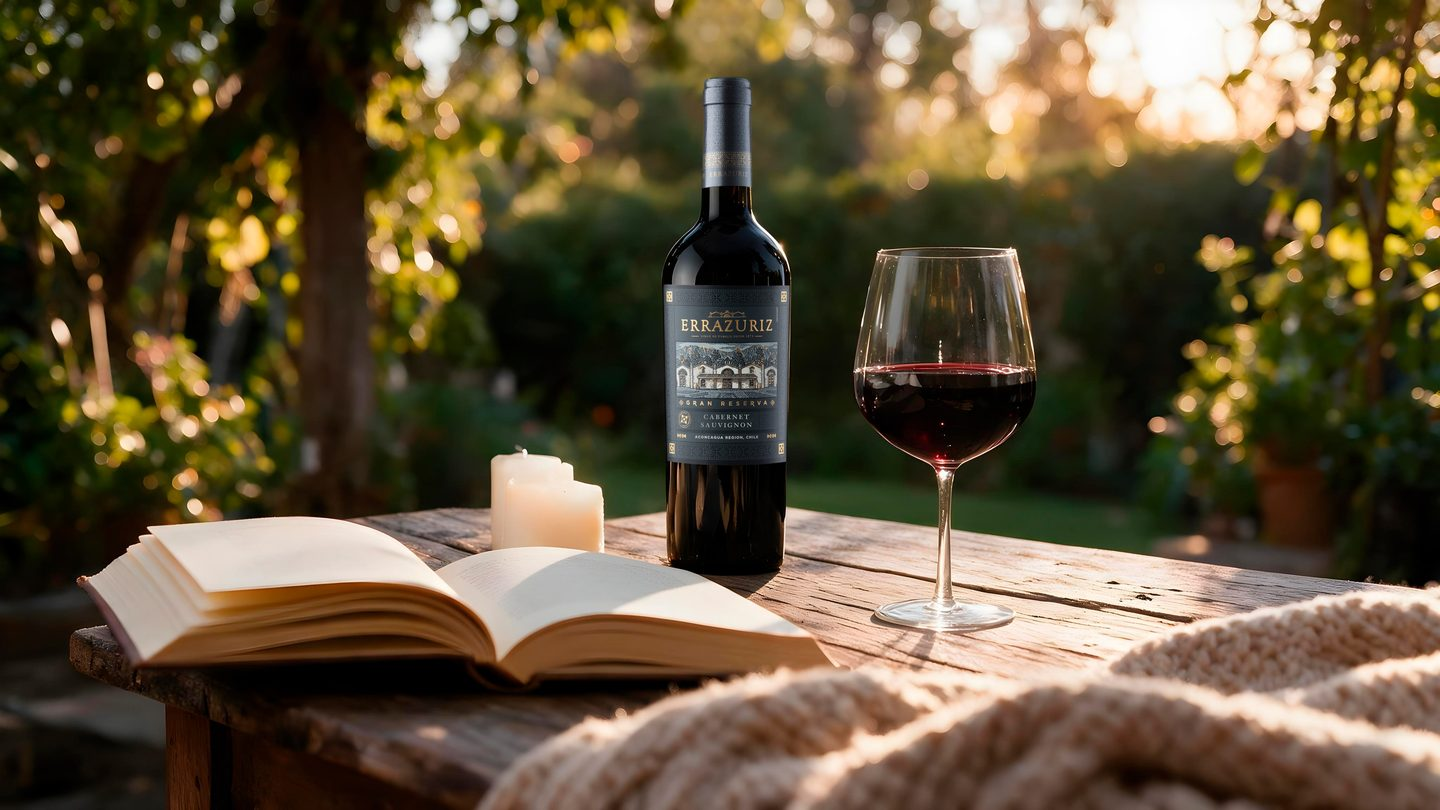
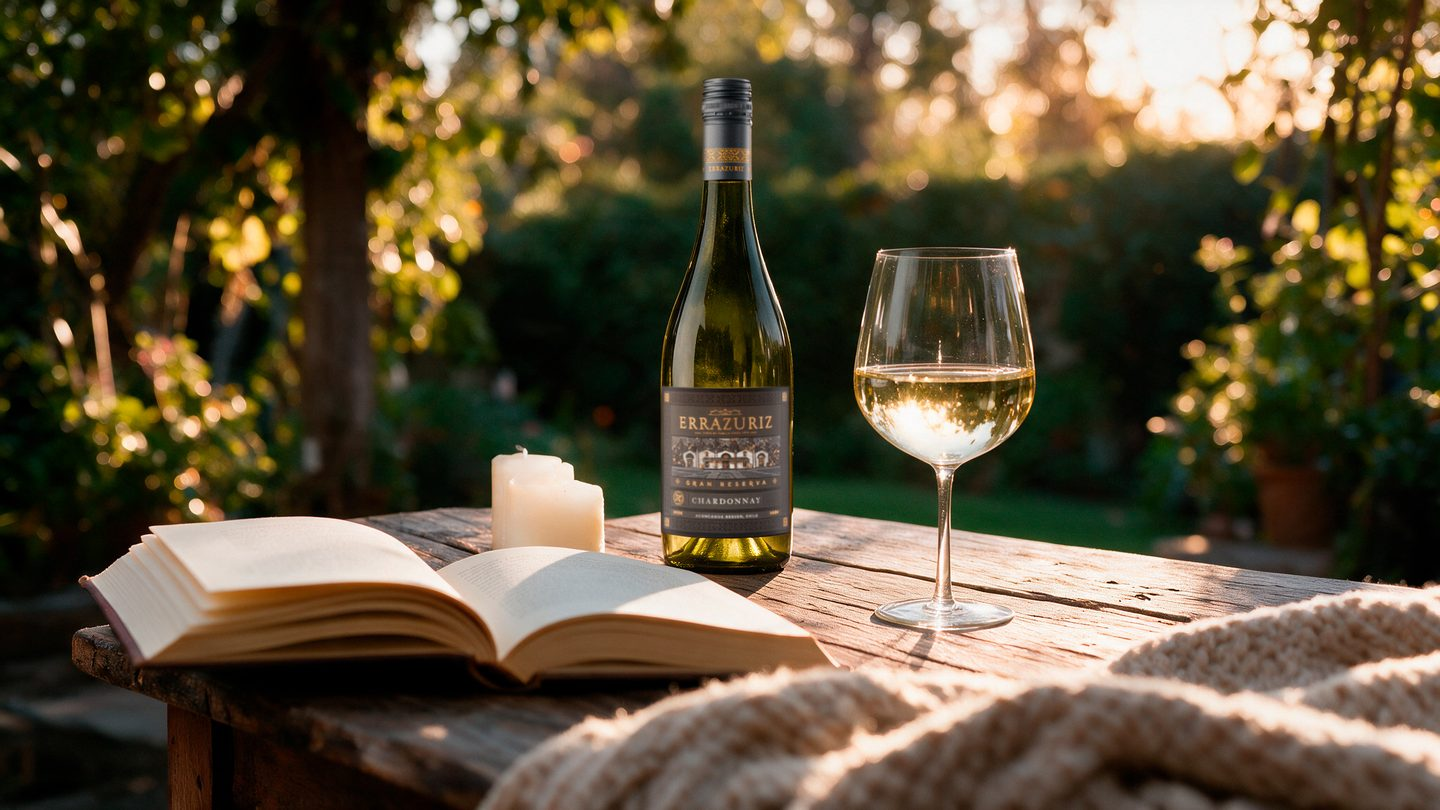
Use the Gran Reserva Chardonnay book image as the hero
Swap the Cabernet Sauvignon garden-table scene for the Chardonnay version
and update the alt text. The new source is 2048px wide, so the largest
desktop and tablet crops are capped at 2048w and 1726w to avoid upscaling.

diff --git a/index.html b/index.html
@@ -29,12 +29,12 @@
                 srcset="assets/hero-book-mobile-640.jpg 640w, assets/hero-book-mobile-960.jpg 960w"
                 sizes="100vw" width="640" height="698">
         <source media="(max-width: 1200px)"
-                srcset="assets/hero-book-tablet-1200.jpg 1200w, assets/hero-book-tablet-1800.jpg 1800w"
+                srcset="assets/hero-book-tablet-1200.jpg 1200w, assets/hero-book-tablet-1726.jpg 1726w"
                 sizes="100vw" width="1200" height="801">
         <img class="hero-image" src="assets/hero-book-1440.jpg"
-             srcset="assets/hero-book-960.jpg 960w, assets/hero-book-1440.jpg 1440w, assets/hero-book-1920.jpg 1920w, assets/hero-book-2560.jpg 2560w"
+             srcset="assets/hero-book-960.jpg 960w, assets/hero-book-1440.jpg 1440w, assets/hero-book-1920.jpg 1920w, assets/hero-book-2048.jpg 2048w"
              sizes="100vw" width="1440" height="810"
-             alt="A bottle of Errazuriz Gran Reserva Cabernet Sauvignon and a glass of red wine beside an open book on a garden table at golden hour" fetchpriority="high">
+             alt="A bottle of Errazuriz Gran Reserva Chardonnay and a glass of white wine beside an open book on a garden table at golden hour" fetchpriority="high">
       </picture>
       <div class="hero-shade"></div>
       <div class="hero-copy">
